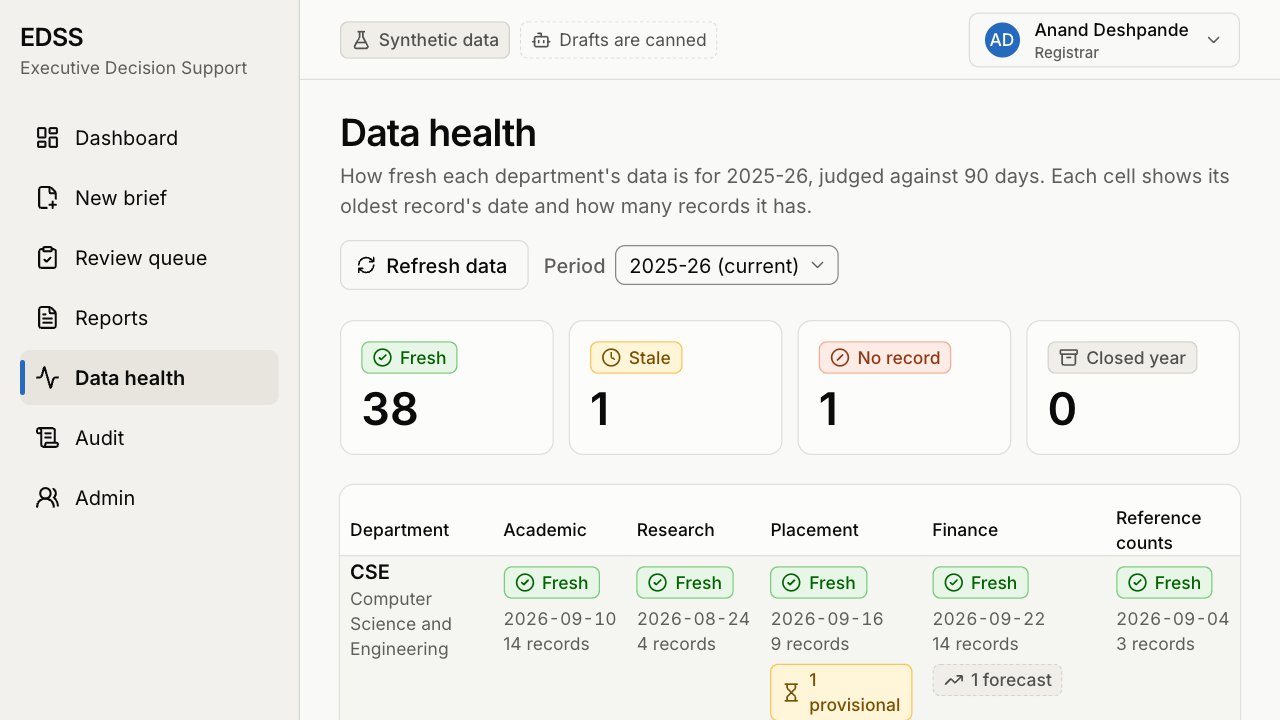
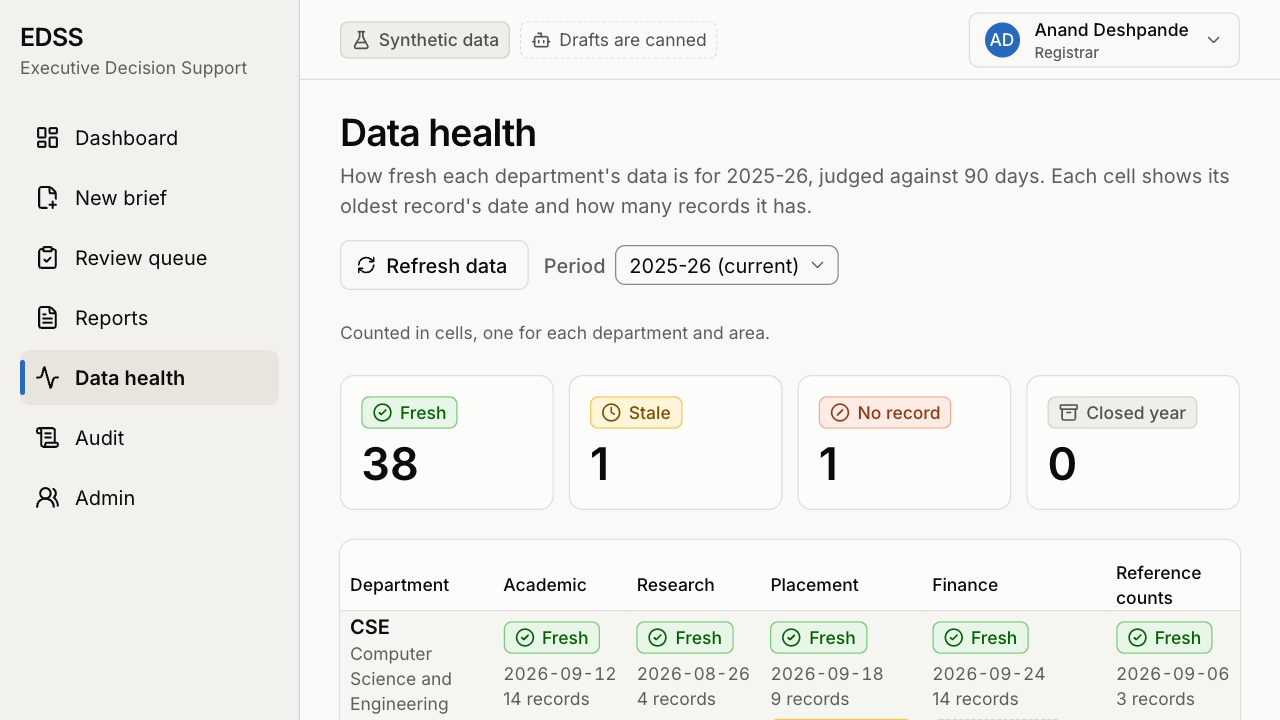
fix: the people table fits a projector, and data health says what its counts count
Found walking the app at 1024 by 576 (a 1280 by 720 projector at 125 percent): the
Administrator's people table was 880 wide in a 702 box, so Edit and Password started off
screen. The buttons now stack below xl and it fits. Data health's Fresh 38 could read as 38
departments; a line now says they are cells, one per department and area, and for a HOD that
they cover the departments their role can see. Every other page was measured and fits.
Screenshots regenerated.

diff --git a/frontend/src/components/admin/people-panel.tsx b/frontend/src/components/admin/people-panel.tsx
@@ -102,7 +102,8 @@ export function PeoplePanel({ options }: { options: AdminOptions }) {
                 </TableCell>
                 <TableCell className="py-3">{user.active ? "Active" : "Switched off"}</TableCell>
                 <TableCell className="py-3">
-                  <span className="flex justify-end gap-1">
+                  {/* stacked below xl, so the table fits a 1280 by 720 projector at 125 percent */}
+                  <span className="flex flex-col items-end gap-1 xl:flex-row xl:justify-end">
                     <Button variant="ghost" size="sm" onClick={() => setEditing(user)} aria-label={`Edit ${user.name}`}>
                       <Pencil aria-hidden />
                       Edit

diff --git a/frontend/src/app/(app)/data-health/page.tsx b/frontend/src/app/(app)/data-health/page.tsx
@@ -76,6 +76,10 @@ function DataHealth() {
 
       {mayRefresh && <RefreshOutcome refresh={refresh} />}
 
+      <p className="text-sm text-muted-foreground">
+        Counted in cells, one for each department and area
+        {data.cells.some((c) => c.restricted) ? ", for the departments your role can see." : "."}
+      </p>
       <ul className="grid grid-cols-2 gap-3 lg:grid-cols-4" aria-label="Cells by state">
         {STATES.map((state) => (
           <li key={state} className="flex flex-col items-start gap-2 rounded-xl border bg-card p-4">

diff --git a/docs/DEMO.md b/docs/DEMO.md
@@ -54,7 +54,7 @@ Top right, click your name (the account menu), then "Sign out", then the role bu
 
 **Say** "Before anyone looks at a KPI, the system says what the data cannot support. Civil's placement data is five months old, so it is used but flagged everywhere. Mechanical has no research record this year, so it is left out of research figures, never counted as zero. All of this is synthetic data, generated with these problems planted on purpose, and everything runs on this laptop with the Wi-Fi off."
 
-**If it goes wrong.** No role buttons on the sign-in page means demo mode is off: you started `make dev`, not `make demo`. Ctrl-C and run `make demo`.
+**If it goes wrong.** If the page was opened before "EDSS is ready", the role buttons appear by themselves within a few seconds. Still none after half a minute means demo mode is off: you started `make dev`, not `make demo`. Ctrl-C and run `make demo`.
 
 ### Step 2. A vague request, questions, and an edited plan (Registrar)
 
